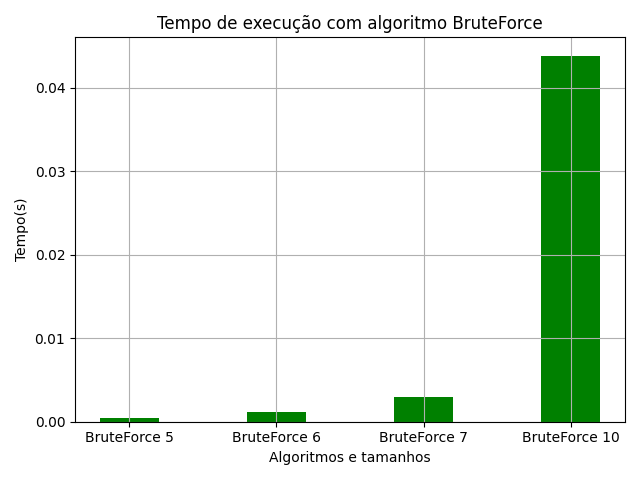
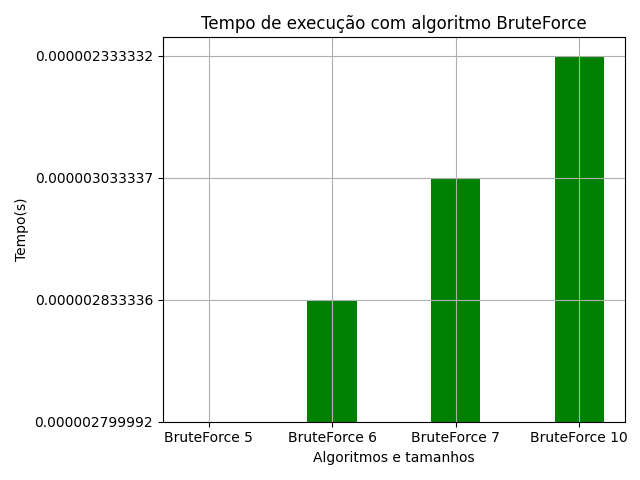
Aplicação com novas funções, porém gráfico mostrando em notação cientifica de forma errada

diff --git a/tempos.py b/tempos.py
@@ -18,8 +18,8 @@ def calcular_tempo_brute_force_timeit(vertex_quantity):
     for i in range (0, 3):
         tempo_brute_force += timeit.timeit("grafo.bruteForce()", setup="from __main__ import grafo", number=1)
     tempo_brute_force /= 3
-    arquivo.write("bruteForce " + ": "  + str(float(tempo_brute_force)) + ";"+ '\n')
-    arquivo1.write(str(float(tempo_brute_force))+'\n')
+    arquivo.write("bruteForce " + ": "  + "{:.12f}".format(float(tempo_brute_force)) + ";"+ '\n')
+    arquivo1.write("{:.12f}".format(float(tempo_brute_force))+'\n')
     print('bruteForce done.')
 
     arquivo.close()
@@ -42,15 +42,15 @@ def calcular_tempo_heuristic_timeit(vertex_quantity):
     for i in range (0, 3):
         tempo_heuristic += timeit.timeit("grafo.vertex_cover_degrees(grafo.lista_Vertices, {})".format(lista_coberturas), setup="from __main__ import grafo", number=1)
     tempo_heuristic /= 3
-    arquivo.write("heuristic " + ": " + str(float(tempo_heuristic)) + ";"+ '\n')
-    arquivo1.write(str(float(tempo_heuristic))+'\n')
+    arquivo.write("heuristic " + ": " + "{:.12f}".format(float(tempo_heuristic)) + ";"+ '\n')
+    arquivo1.write("{:.12f}".format(float(tempo_heuristic))+'\n')
     print('heuristic done.')
 
     arquivo.close()
 
 def gerar_grafico(alghoritm_value, alghoritm_classification, tipo):
     ''''''
-    y_axis = alghoritm_value
+    y_axis = list(map(lambda x: "{:.12f}".format(float(x)), alghoritm_value))
     print(y_axis)
     x_axis = range(len(y_axis))
     width_n = 0.4

diff --git a/NP_Completo.py b/NP_Completo.py
@@ -1,0 +1,35 @@
+from Grafo import Grafo
+from tempos import calcular_tempo_brute_force_timeit, calcular_tempo_heuristic_timeit, get_valores_pro_grafico
+
+def calcula_tempo_grafos_aleatorios():
+    grafo = Grafo()
+
+    quantity_vertex = [5,6,7,10]
+
+    for quantity in quantity_vertex:
+        grafo.create_random_graph(quantity)
+        calcular_tempo_brute_force_timeit(len(grafo.lista_Vertices))
+        calcular_tempo_heuristic_timeit(len(grafo.lista_Vertices))
+
+    get_valores_pro_grafico("Heuristic", quantity_vertex)
+    get_valores_pro_grafico("BruteForce", quantity_vertex)
+
+def testaResultadoEmTempoPolinomial(grafo):
+    solution = grafo.bruteForce()
+    for item in solution: # n
+        solution_vertices = [] # 1
+        adjacents = [] # 1
+        count = 0 # 1
+        k = len(item) # 1
+
+        for vertice in item: # n
+            solution_vertices.append(vertice.getId()) # 1
+            adjacents = grafo.busca_Adjacentes(vertice) # n
+            for adjacent in adjacents: # n
+                grafo.remove_Aresta(vertice.getId(), adjacent.getId()) # n
+            count += 1 #1
+
+        if count == k and len(grafo.lista_Arestas) == 0: #1
+            print(f"A solução {solution_vertices} gerada pelo algoritmo, é realmente uma solução para o problema de cobertura de vértices.")
+        else:
+            print(f"A solução {solution_vertices} gerada pelo algoritmo, não é uma solução para o problema de cobertura de vértices.")

diff --git a/aplicacao.py b/aplicacao.py
@@ -1,5 +1,6 @@
 from Grafo import Grafo
 from copy import deepcopy
+from NP_Completo import testaResultadoEmTempoPolinomial, calcula_tempo_grafos_aleatorios
 
 option = 1
 grafo = Grafo()
@@ -22,7 +23,7 @@ grafo_exemplo.nova_Aresta(4, 5, 0)
 
 while option:
     print("Vértice-Local de câmera\nAresta-Corredor\n\nOpções:\n1-Adicionar local de câmera\n2-Adicionar um corredor\n3-Remover local de câmera\n4-Remover um corredor",
-        "\n5-Utilizar exemplo\n6-Realizar Cobertura Mínima de Vértices\n7-Realizar cobertura heurística\n8-Mostrar Grafo\n0-Sair da Aplicação\n")
+        "\n5-Utilizar exemplo\n6-Realizar Cobertura Mínima de Vértices\n7-Realizar cobertura heurística\n8-Mostrar Grafo\n9-Testa resultado\n10-Compara brute Force com heurística\n0-Sair da Aplicação\n")
     option = int(input("O que deseja fazer ? "))
 
     if option == 1:
@@ -69,3 +70,7 @@ while option:
             print()
     elif option == 8:
         print(grafo.printa_grafo())
+    elif option == 9:
+        testaResultadoEmTempoPolinomial(grafo)
+    elif option == 10:
+        calcula_tempo_grafos_aleatorios()
